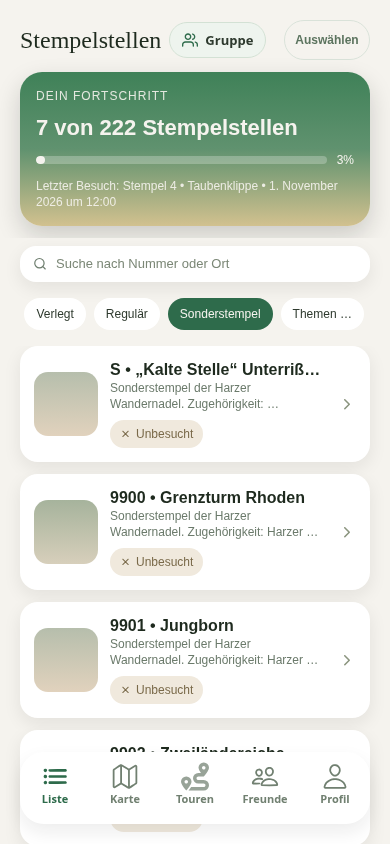
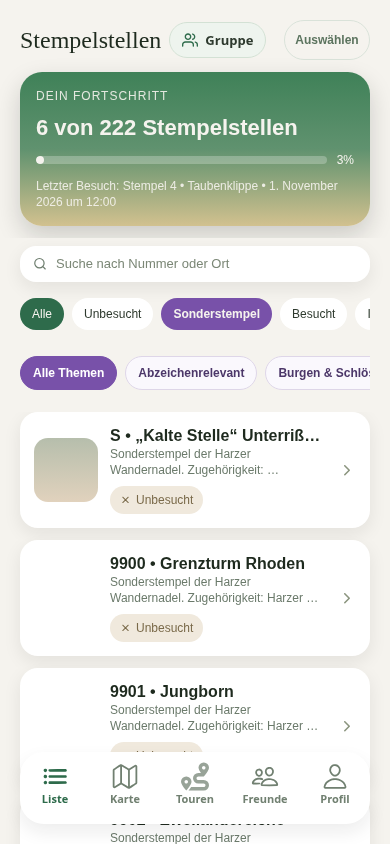
fix(app): restore purple special chip and expand theme filters

diff --git a/app/app/(tabs)/index.tsx b/app/app/(tabs)/index.tsx
@@ -1,5 +1,5 @@
 import { StampCatalogFilters } from '@/components/stamp-catalog-filters';
-import { matchesStampType, regularStampCounts, stampThemes, stampThemeLabels, type StampTypeFilter } from '@/lib/stamp-catalog';
+import { matchesStampType, regularStampCounts, stampThemes, matchesStampTheme, SPECIAL_STAMP_COLOR, type StampTypeFilter } from '@/lib/stamp-catalog';
 import { publishStampingSuccess } from '@/lib/stamping-feedback';
 import { useOfflineVisits } from '@/lib/offline-visits';
 import { Feather } from '@expo/vector-icons';
@@ -48,8 +48,8 @@ type RemovalPlan = { stampId: string; visitIds: string[] }[];
 
 const FILTERS: { key: FilterKey; label: string }[] = [
   { key: 'all', label: 'Alle' },
-  { key: 'visited', label: 'Besucht' },
   { key: 'open', label: 'Unbesucht' },
+  { key: 'visited', label: 'Besucht' },
   { key: 'near', label: 'In der Nähe' },
   { key: 'relocated', label: 'Verlegt' },
 ];
@@ -194,7 +194,6 @@ export default function StampsScreen() {
   const [query, setQuery] = useState('');
   const [stampType, setStampType] = useState<StampTypeFilter>('all');
   const [stampTheme, setStampTheme] = useState('');
-  const [showThemes, setShowThemes] = useState(false);
   const [activeFilter, setActiveFilter] = useState<FilterKey>('all');
   useEffect(() => {
     if (goalParams.badgeGoal) {
@@ -482,7 +481,7 @@ export default function StampsScreen() {
   const filteredStamps = useMemo(
     () =>
       stampDistances.filter(({ stamp, distanceKm }) => {
-        if (!matchesStampType(stamp, stampType) || (stampTheme && !stampThemes(stamp).includes(stampTheme))) return false;
+        if (!matchesStampType(stamp, stampType) || !matchesStampTheme(stamp, stampTheme)) return false;
         if (goalParams.badgeGoal) {
           if (!badgeGoal || stamp.hasVisited) return false;
           if (goalStampIds ? !goalStampIds.has(stamp.ID) : !/^\d+$/.test(stamp.number) || Number(stamp.number) < 1 || Number(stamp.number) > 222) return false;
@@ -932,8 +931,8 @@ export default function StampsScreen() {
         {FILTERS.map((filter) => {
           const isActive = activeFilter === filter.key;
           return (
-            <Pressable
-              key={filter.key}
+            <React.Fragment key={filter.key}><Pressable
+              accessibilityRole="button" accessibilityState={{ selected: isActive }}
               onPress={() => setActiveFilter(filter.key)}
               style={({ pressed }) => [
                 styles.filterPill,
@@ -944,23 +943,23 @@ export default function StampsScreen() {
                 {filter.label}
               </Text>
             </Pressable>
+            {filter.key === 'open' ? <Pressable accessibilityRole="button" accessibilityState={{ selected: stampType === 'special' }}
+              onPress={() => { setStampType(current => current === 'special' ? 'all' : 'special'); setStampTheme(''); }}
+              style={({ pressed }) => [styles.filterPill, styles.specialFilterPill, stampType === 'special' && styles.specialFilterPillActive, pressed && styles.filterPillPressed]}>
+              <Text style={[styles.filterPillLabel, styles.specialFilterLabel, stampType === 'special' && styles.filterPillLabelActive]}>Sonderstempel</Text>
+            </Pressable> : null}</React.Fragment>
           );
         })}
-        {(['regular', 'special'] as const).map(type => <Pressable key={type}
+        {(['regular'] as const).map(type => <Pressable key={type}
           accessibilityRole="button" accessibilityState={{ selected: stampType === type }}
-          onPress={() => setStampType(current => current === type ? 'all' : type)}
+          onPress={() => { setStampType(current => current === type ? 'all' : type); setStampTheme(''); }}
           style={({ pressed }) => [styles.filterPill, stampType === type && styles.filterPillActive, pressed && styles.filterPillPressed]}>
-          <Text style={[styles.filterPillLabel, stampType === type && styles.filterPillLabelActive]}>{type === 'regular' ? 'Regulär' : 'Sonderstempel'}</Text>
+          <Text style={[styles.filterPillLabel, stampType === type && styles.filterPillLabelActive]}>Regulär</Text>
         </Pressable>)}
-        <Pressable accessibilityRole="button" accessibilityState={{ expanded: showThemes, selected: Boolean(stampTheme) }}
-          accessibilityLabel="Themen auswählen" onPress={() => setShowThemes(current => !current)}
-          style={[styles.filterPill, stampTheme && styles.filterPillActive]}>
-          <Text style={[styles.filterPillLabel, stampTheme && styles.filterPillLabelActive]}>{stampTheme ? stampThemeLabels[stampTheme] || stampTheme : 'Themen …'}</Text>
-        </Pressable>
       </ScrollView>
-      {showThemes ? <StampCatalogFilters themeOnly type={stampType} theme={stampTheme}
-        themes={[...new Set(stamps.flatMap(stampThemes))].sort()} onTypeChange={setStampType}
-        onThemeChange={theme => { setStampTheme(theme); setShowThemes(false); }} /> : null}
+      {stampType === 'special' ? <StampCatalogFilters themeOnly includeBadgeRelevant type={stampType} theme={stampTheme}
+        themes={[...new Set(stamps.filter(stamp => matchesStampType(stamp, 'special')).flatMap(stampThemes))].sort()} onTypeChange={setStampType}
+        onThemeChange={setStampTheme} /> : null}
 
       {activeFilter === 'near' && locationState !== 'granted' ? (
         <Text style={styles.filterHint}>
@@ -968,7 +967,7 @@ export default function StampsScreen() {
         </Text>
       ) : null}
     </View>
-  ), [activeFilter, locationState, query, goalParams.badgeGoal,badgeGoal,goalAlbum.error,router,stamps,stampType,stampTheme,showThemes]);
+  ), [activeFilter, locationState, query, goalParams.badgeGoal,badgeGoal,goalAlbum.error,router,stamps,stampType,stampTheme]);
 
   const renderListItem = useCallback(
     ({ item }: { item: ListEntry }) => {
@@ -1538,6 +1537,16 @@ const styles = StyleSheet.create({
   },
   filterPillActive: {
     backgroundColor: '#2e6b4b',
+  },
+  specialFilterPill: {
+    backgroundColor: '#f0e9f8',
+  },
+  specialFilterPillActive: {
+    backgroundColor: SPECIAL_STAMP_COLOR,
+  },
+  specialFilterLabel: {
+    color: SPECIAL_STAMP_COLOR,
+    fontWeight: '600',
   },
   filterPillPressed: {
     opacity: 0.85,

diff --git a/app/app/(tabs)/__tests__/index-guest.test.tsx b/app/app/(tabs)/__tests__/index-guest.test.tsx
@@ -237,15 +237,25 @@ describe('StampsScreen', () => {
     ]);
     await renderScreen();
     expect(screen.getByText(/von 1 Stempelstellen/)).toBeOnTheScreen();
+    const mainChips = screen.getAllByRole('button', { name: /^(Alle|Unbesucht|Sonderstempel|Besucht|In der Nähe|Verlegt|Regulär)$/ });
+    expect(mainChips.slice(0, 3)).toEqual(['Alle', 'Unbesucht', 'Sonderstempel'].map(name => screen.getByRole('button', { name })));
+    expect(screen.queryByRole('button', { name: 'Abzeichenrelevant' })).toBeNull();
     fireEvent.press(screen.getByRole('button', { name: 'Sonderstempel' }));
-    expect(screen.getByRole('button', { name: 'Sonderstempel', selected: true })).toBeOnTheScreen();
+    expect(screen.getByRole('button', { name: 'Sonderstempel', selected: true })).toHaveStyle({ backgroundColor: '#7851a9' });
     expect(screen.queryByTestId('stamp-list-item-regular')).toBeNull();
     expect(screen.getByTestId('stamp-list-item-special')).toBeOnTheScreen();
-    expect(screen.queryByRole('button', { name: 'Grenzweg' })).toBeNull();
-    fireEvent.press(screen.getByRole('button', { name: 'Themen auswählen' }));
-    fireEvent.press(screen.getByRole('button', { name: 'Grenzweg' }));
-    expect(screen.getByRole('button', { name: 'Themen auswählen', selected: true })).toBeOnTheScreen();
+    expect(screen.getByRole('button', { name: 'Abzeichenrelevant' })).toBeOnTheScreen();
+    fireEvent.press(screen.getByRole('button', { name: 'Abzeichenrelevant' }));
     expect(screen.getByTestId('stamp-list-item-special')).toBeOnTheScreen();
+    fireEvent.press(screen.getByRole('button', { name: 'Grenzweg' }));
+    expect(screen.getByRole('button', { name: 'Grenzweg', selected: true })).toBeOnTheScreen();
+    expect(screen.getByTestId('stamp-list-item-special')).toBeOnTheScreen();
+    expect(screen.getByRole('button', { name: 'Alle Themen' })).toBeOnTheScreen();
+    fireEvent.press(screen.getByRole('button', { name: 'Regulär' }));
+    expect(screen.queryByRole('button', { name: 'Grenzweg' })).toBeNull();
+    expect(screen.getByTestId('stamp-list-item-regular')).toBeOnTheScreen();
+    fireEvent.press(screen.getByRole('button', { name: 'Sonderstempel' }));
+    expect(screen.getByRole('button', { name: 'Alle Themen', selected: true })).toBeOnTheScreen();
   });
 
   it('uses the guest query and disables the authenticated query', async () => {

diff --git a/app/components/stamp-catalog-filters.tsx b/app/components/stamp-catalog-filters.tsx
@@ -2,10 +2,10 @@ import React from 'react';
 import { Pressable, ScrollView, StyleSheet, Text, View } from 'react-native';
 import { SPECIAL_STAMP_COLOR, stampThemeLabels, type StampTypeFilter } from '@/lib/stamp-catalog';
 
-export function StampCatalogFilters({ type, theme, themes, onTypeChange, onThemeChange, automatic = false, themeOnly = false }: {
+export function StampCatalogFilters({ type, theme, themes, onTypeChange, onThemeChange, automatic = false, themeOnly = false, includeBadgeRelevant = false }: {
   type: StampTypeFilter; theme: string; themes: string[];
   onTypeChange: (type: StampTypeFilter) => void; onThemeChange: (theme: string) => void;
-  automatic?: boolean; themeOnly?: boolean;
+  automatic?: boolean; themeOnly?: boolean; includeBadgeRelevant?: boolean;
 }) {
   function chip(key: string, label: string, selected: boolean, onPress: () => void) {
     return <Pressable key={key} accessibilityRole="button" accessibilityState={{ selected }}
@@ -20,8 +20,9 @@ export function StampCatalogFilters({ type, theme, themes, onTypeChange, onTheme
         { auto: 'Standard', all: 'Alle Arten', regular: 'Regulär (1–222)', special: 'Sonderstempel' }[key],
         type === key, () => onTypeChange(key)))}
     </ScrollView></> : null}
-    {themes.length > 0 ? <ScrollView horizontal showsHorizontalScrollIndicator={false} contentContainerStyle={styles.row}>
+    {themes.length > 0 || includeBadgeRelevant ? <ScrollView horizontal showsHorizontalScrollIndicator={false} contentContainerStyle={styles.row}>
       {chip('all-themes', 'Alle Themen', theme === '', () => onThemeChange(''))}
+      {includeBadgeRelevant ? chip('badge-relevant', 'Abzeichenrelevant', theme === 'badge-relevant', () => onThemeChange('badge-relevant')) : null}
       {themes.map(key => chip(key, stampThemeLabels[key] || key, theme === key, () => onThemeChange(key)))}
     </ScrollView> : null}
   </View>;

diff --git a/app/__tests__/special-stamp-theme-filter.test.ts b/app/__tests__/special-stamp-theme-filter.test.ts
@@ -1,0 +1,25 @@
+import { matchesStampTheme } from '@/lib/stamp-catalog';
+
+const stamp = (catalogKey: string, themeKeys = '["grenzweg"]') => ({
+  catalogKey, themeKeys, number: '9900', stampType: 'special' as const,
+});
+
+test('badge relevance includes the three actual special requirements, not every Grenzweg stamp', () => {
+  for (const key of ['special-jungborn', 'special-two-countries-oak', 'special-three-countries-stone']) {
+    expect(matchesStampTheme(stamp(key), 'badge-relevant')).toBe(true);
+  }
+  expect(matchesStampTheme(stamp('special-9900'), 'badge-relevant')).toBe(false);
+  expect(matchesStampTheme(stamp('special-9900'), 'grenzweg')).toBe(true);
+  expect(matchesStampTheme(stamp('special-9900'), 'talsperren')).toBe(false);
+  expect(matchesStampTheme(stamp('special-9900'), '')).toBe(true);
+  expect(matchesStampTheme({ number: '1', stampType: 'regular', catalogKey: 'hwn-1' }, 'badge-relevant')).toBe(false);
+});
+
+
+test('badge filter preserves the explicit aliases and historical border identities from the integrated catalogue', () => {
+  expect(matchesStampTheme(stamp('hwn:special:jungborn'), 'badge-relevant')).toBe(true);
+  expect(matchesStampTheme({ number: 'SX-Zwei-Länder-Eiche' }, 'badge-relevant')).toBe(true);
+  expect(matchesStampTheme({ number: '9903' }, 'badge-relevant')).toBe(true);
+  expect(matchesStampTheme({ number: '9900' }, 'badge-relevant')).toBe(false);
+  expect(matchesStampTheme({ number: '9901', catalogKey: 'special-another-place' }, 'badge-relevant')).toBe(false);
+});

diff --git a/backend/hwb/util/generateSpecialStampFixtures.js b/backend/hwb/util/generateSpecialStampFixtures.js
@@ -30,3 +30,16 @@ for (const item of catalogue.regularMemberships) {
 }
 const appThemes = path.join(__dirname, '../../..', 'app/lib/regular-stamp-themes.json');
 fs.writeFileSync(appThemes, JSON.stringify(regularThemes, null, 2) + '\n');
+
+// The UI's badge filter follows the actual required special identities, not themes or proximity.
+const { catalog } = require('../srv/badge-catalog');
+const badgeSpecialKeys = [...new Set(catalog.flatMap(badge => badge.required || [])
+  .filter(key => typeof key === 'string' && key.startsWith('special-')))].sort();
+const { borderAliases } = require('../srv/special-stamp-identity');
+const aliases = require('../catalogue/special-stamp-key-aliases.json');
+const normalize = value => value.toLowerCase().normalize('NFD').replace(/[\u0300-\u036f]/g, '').replace(/[^a-z0-9]/g, '');
+const badgeSpecialIdentities = {
+  catalogKeys: [...badgeSpecialKeys, ...Object.keys(aliases).filter(key => badgeSpecialKeys.includes(aliases[key]))].sort(),
+  legacyNumbers: [...new Set(badgeSpecialKeys.flatMap(key => [key, ...(borderAliases[key] || [])]).map(normalize))].sort(),
+};
+fs.writeFileSync(path.join(__dirname, '../../..', 'app/lib/badge-special-stamps.json'), JSON.stringify(badgeSpecialIdentities, null, 2) + '\n');

diff --git a/app/lib/stamp-catalog.ts b/app/lib/stamp-catalog.ts
@@ -1,3 +1,4 @@
+import badgeSpecialKeys from './badge-special-stamps.json';
 import regularThemes from './regular-stamp-themes.json';
 import type { Stampbox } from './api';
 
@@ -30,3 +31,14 @@ export const stampThemeLabels: Record<string, string> = {
   klosterwanderweg: 'Klosterwanderweg', quedlinburg: 'Quedlinburg',
 };
 export const SPECIAL_STAMP_COLOR = '#7851a9';
+
+export function matchesStampTheme(stamp: Pick<Stampbox, 'themeKeys' | 'number' | 'stampType' | 'catalogKey'>, theme: string) {
+  if (!theme) return true;
+  if (theme === 'badge-relevant') {
+    if (!isSpecialStamp(stamp)) return false;
+    if (stamp.catalogKey) return badgeSpecialKeys.catalogKeys.includes(stamp.catalogKey);
+    const number = stamp.number.toLowerCase().normalize('NFD').replace(/[\u0300-\u036f]/g, '').replace(/[^a-z0-9]/g, '');
+    return badgeSpecialKeys.legacyNumbers.includes(number);
+  }
+  return stampThemes(stamp).includes(theme);
+}

diff --git a/backend/hwb/test/special-stamps.test.js b/backend/hwb/test/special-stamps.test.js
@@ -12,6 +12,8 @@ const special = catalogRows();
 const regular = Array.from({ length: 222 }, (_, i) => ({ ID: `regular-${i + 1}`, number: String(i + 1), name: `HWN ${i + 1}` }));
 test('reviewed catalog and development CSV contain all special entries without duplicating regular identities', () => {
   assert.equal(special.length, 151);
+  const badgeSpecialKeys = [...new Set(catalog.flatMap(badge => badge.required || []).filter(key => typeof key === 'string' && key.startsWith('special-')))].sort();
+  assert.deepEqual(JSON.parse(readFileSync(path.join(__dirname, '../../../app/lib/badge-special-stamps.json'), 'utf8')).catalogKeys.filter(key => key.startsWith('special-')), badgeSpecialKeys);
   assert.equal(new Set(special.map(s => s.ID)).size, 151);
   assert.equal(new Set(special.map(s => s.catalogKey)).size, 151);
   assert.equal(special.filter(s => s.locationStatus === 'verified').length, 124);

diff --git a/backend/hwb/srv/special-stamp-identity.js b/backend/hwb/srv/special-stamp-identity.js
@@ -44,4 +44,4 @@ function resolveSpecialStamp(input, existing) {
   return null;
 }
 
-module.exports = { canonicalCatalogKey, legacyBorderKey, isSpecialStamp, resolveSpecialStamp };
+module.exports = { borderAliases, canonicalCatalogKey, legacyBorderKey, isSpecialStamp, resolveSpecialStamp };

diff --git a/docs/special-stamps.md b/docs/special-stamps.md
@@ -56,13 +56,13 @@ Die Entwicklungs-CSV `backend/hwb/db/doNotDeploy-data/hwb.db.Stampboxes.csv` ent
 node backend/hwb/util/generateSpecialStampFixtures.js
 ```
 
-Der Generator aktualisiert ausschließlich diese Entwicklungsdaten sowie die abgeleiteten regulären Themenzugehörigkeiten der App. Er greift nicht auf eine Datenbank zu. Wiederholung erzeugt byteidentische Ergebnisse. Die bestehenden regulären UUIDs, Standorte und Beschreibungen bleiben erhalten.
+Der Generator aktualisiert ausschließlich diese Entwicklungsdaten sowie die abgeleiteten regulären Themenzugehörigkeiten und abzeichenrelevanten Sonderidentitäten der App. Er greift nicht auf eine Datenbank zu. Wiederholung erzeugt byteidentische Ergebnisse. Die bestehenden regulären UUIDs, Standorte und Beschreibungen bleiben erhalten.
 
 Der öffentliche Website-Export überspringt explizite Sonderstempel-Identitäten vor der Prüfung von Anzeigenummer und Koordinaten. Sein öffentliches Schema bleibt auf die 222 regulären Stellen begrenzt; neue interne Katalogmetadaten werden nicht veröffentlicht. Auch ein Sonderstempel mit einer regulär aussehenden Anzeigenummer wird dort nicht mitgezählt.
 
 ## Filter und Marker
 
-Karte und Liste besitzen unabhängige Filter für reguläre/Sonderstempel, Themen und Besuchsstatus. Mehrfachzugehörigkeiten sind möglich. Der reguläre Zähler bleibt auf 222 begrenzt. Stempelart-Filter sind als dezente Chips in die vorhandene Listenfilterzeile integriert; die Themenauswahl öffnet sich erst über „Themen …“. Im großen Fortschrittsfeld gibt es keine zusätzliche Sonderstempelanzeige. Noch nicht initialisierte Produktivdatenbanken erhalten reguläre Themenzugehörigkeiten in der App aus demselben geprüften Datensatz.
+Karte und Liste besitzen unabhängige Filter für reguläre/Sonderstempel, Themen und Besuchsstatus. Mehrfachzugehörigkeiten sind möglich. Der reguläre Zähler bleibt auf 222 begrenzt. Stempelart-Filter sind als dezente Chips in die vorhandene Listenfilterzeile integriert; „Sonderstempel“ steht lila an dritter Stelle hinter „Alle“ und „Unbesucht“. Bei aktiven Sonderstempeln erscheint automatisch eine zweite, horizontal scrollbare Chipreihe mit „Alle Themen“, „Abzeichenrelevant“ und den Themenheften. Die Reihe bleibt bei Auswahl offen; beim Verlassen des Sonderfilters wird das Thema zurückgesetzt. „Abzeichenrelevant“ verwendet ausschließlich die aus den Backend-Abzeichenregeln generierten Sonderidentitäten (aktuell Jungborn, Zwei-Länder-Eiche und Drei-Länder-Stein), nicht pauschal alle Grenzweg-Stellen. Im großen Fortschrittsfeld gibt es keine zusätzliche Sonderstempelanzeige. Noch nicht initialisierte Produktivdatenbanken erhalten reguläre Themenzugehörigkeiten in der App aus demselben geprüften Datensatz.
 
 Die Karte startet im Modus „Standard“ mit regulären Stellen. Sonderstempel werden automatisch erst bei `longitudeDelta < 0.18` eingeblendet, derselben Detailstufe wie Parkplätze. „Alle Arten“, „Sonderstempel“, eine Themen-/Statusauswahl, eine Suche oder die gezielte Auswahl einer Sonderstelle übersteuern diese Zoomgrenze. „Regulär“ bleibt bei jedem Zoom ausschließlich regulär. Kartenbewegungen innerhalb derselben Sichtbarkeitsstufe bauen den Stempelbestand nicht neu auf.
 
@@ -104,7 +104,7 @@ Beschreibende Meldungen verwenden ausschließlich vollständig geprüfte exakte 
 
 Die Screenshots stammen aus der vollständigen Web-App an einem isolierten lokalen In-Memory-Backend. Sie zeigen sieben synthetische reguläre Besuche und einen bewusst angelegten Sonderbesuch. Die Initialisierung wurde im Browser wiederholt; der zweite Aufruf legte nichts mehr an. Markerfarbe, Filter, unveränderter regulärer Fortschritt, fehlender horizontaler Seitenüberlauf und Browserfehler wurden geprüft. Keine Produktivdaten verändert. Native Android-/iOS-Laufzeitabnahme bleibt offen.
 
-Die aktuelle Browserprüfung bestätigt zusätzlich: Hauptliste mit einer Filterzeile und eingeklappter Themenauswahl; Karte im Standardmodus mit 0 Sondermarkern in der Übersicht, 124 am Detailzoom und erneut 0 nach dem Herauszoomen. „Alle Arten“ blendet 124 Sondermarker sofort ein; „Regulär“ zeigt auch bei näherem Zoom keine. Sonderstempel + Grenzweg zeigt vier Marker. Kein horizontaler Seitenüberlauf oder JavaScript-Fehler.
+Die aktuelle Browserprüfung bestätigt zusätzlich: Hauptliste mit einer Filterzeile; bei aktiven Sonderstempeln erscheint die Themenreihe automatisch; Karte im Standardmodus mit 0 Sondermarkern in der Übersicht, 124 am Detailzoom und erneut 0 nach dem Herauszoomen. „Alle Arten“ blendet 124 Sondermarker sofort ein; „Regulär“ zeigt auch bei näherem Zoom keine. Sonderstempel + Grenzweg zeigt vier Marker. Kein horizontaler Seitenüberlauf oder JavaScript-Fehler.
 
 | Dezente Standardliste | Kartenübersicht ohne Sondermarker |
 | --- | --- |
@@ -125,3 +125,7 @@ Die aktuelle Browserprüfung bestätigt zusätzlich: Hauptliste mit einer Filter
 ### Bilder auf der Website
 
 50 eindeutig zugeordnete Fotos mit geprüfter Creative-Commons-Lizenz sind über `heroImageUrl` und `imageCaption` im Katalog und in der Dummy-CSV verknüpft. Die anderen 101 Einträge bleiben ohne Bild. Bildnachweise müssen in der App sichtbar bleiben. Die Fotos zeigen Orte/Einrichtungen, nicht zwingend den aktuellen Stempelkasten. Die Website stellt Dateien unter `/assets/images/stampboxes/special/<catalogKey>.webp` und das Bildverzeichnis unter `/data/special-stamp-images.json` bereit; sie muss vor Nutzung der neuen URLs veröffentlicht werden. Bestehende Datenbankeinträge werden vom Initialisierungsbutton weiterhin übersprungen, individuelle Fotos bleiben erhalten. Diese Änderung aktualisiert keine produktiven Datensätze.
+
+Die gezielte Browserprüfung der Listenfilter bestätigt: Reihenfolge „Alle · Unbesucht · Sonderstempel“, violetter Sonderchip, automatisch sichtbare und offen bleibende Themenreihe, drei abzeichenrelevante Sonderstempel gegenüber vier im Thema Grenzweg und Rücksetzen des Themas beim Artenwechsel.
+
+![Abzeichenrelevante Sonderstempel mit offener Themenreihe](screenshots/special-stamps/list-specials-badges.png)
